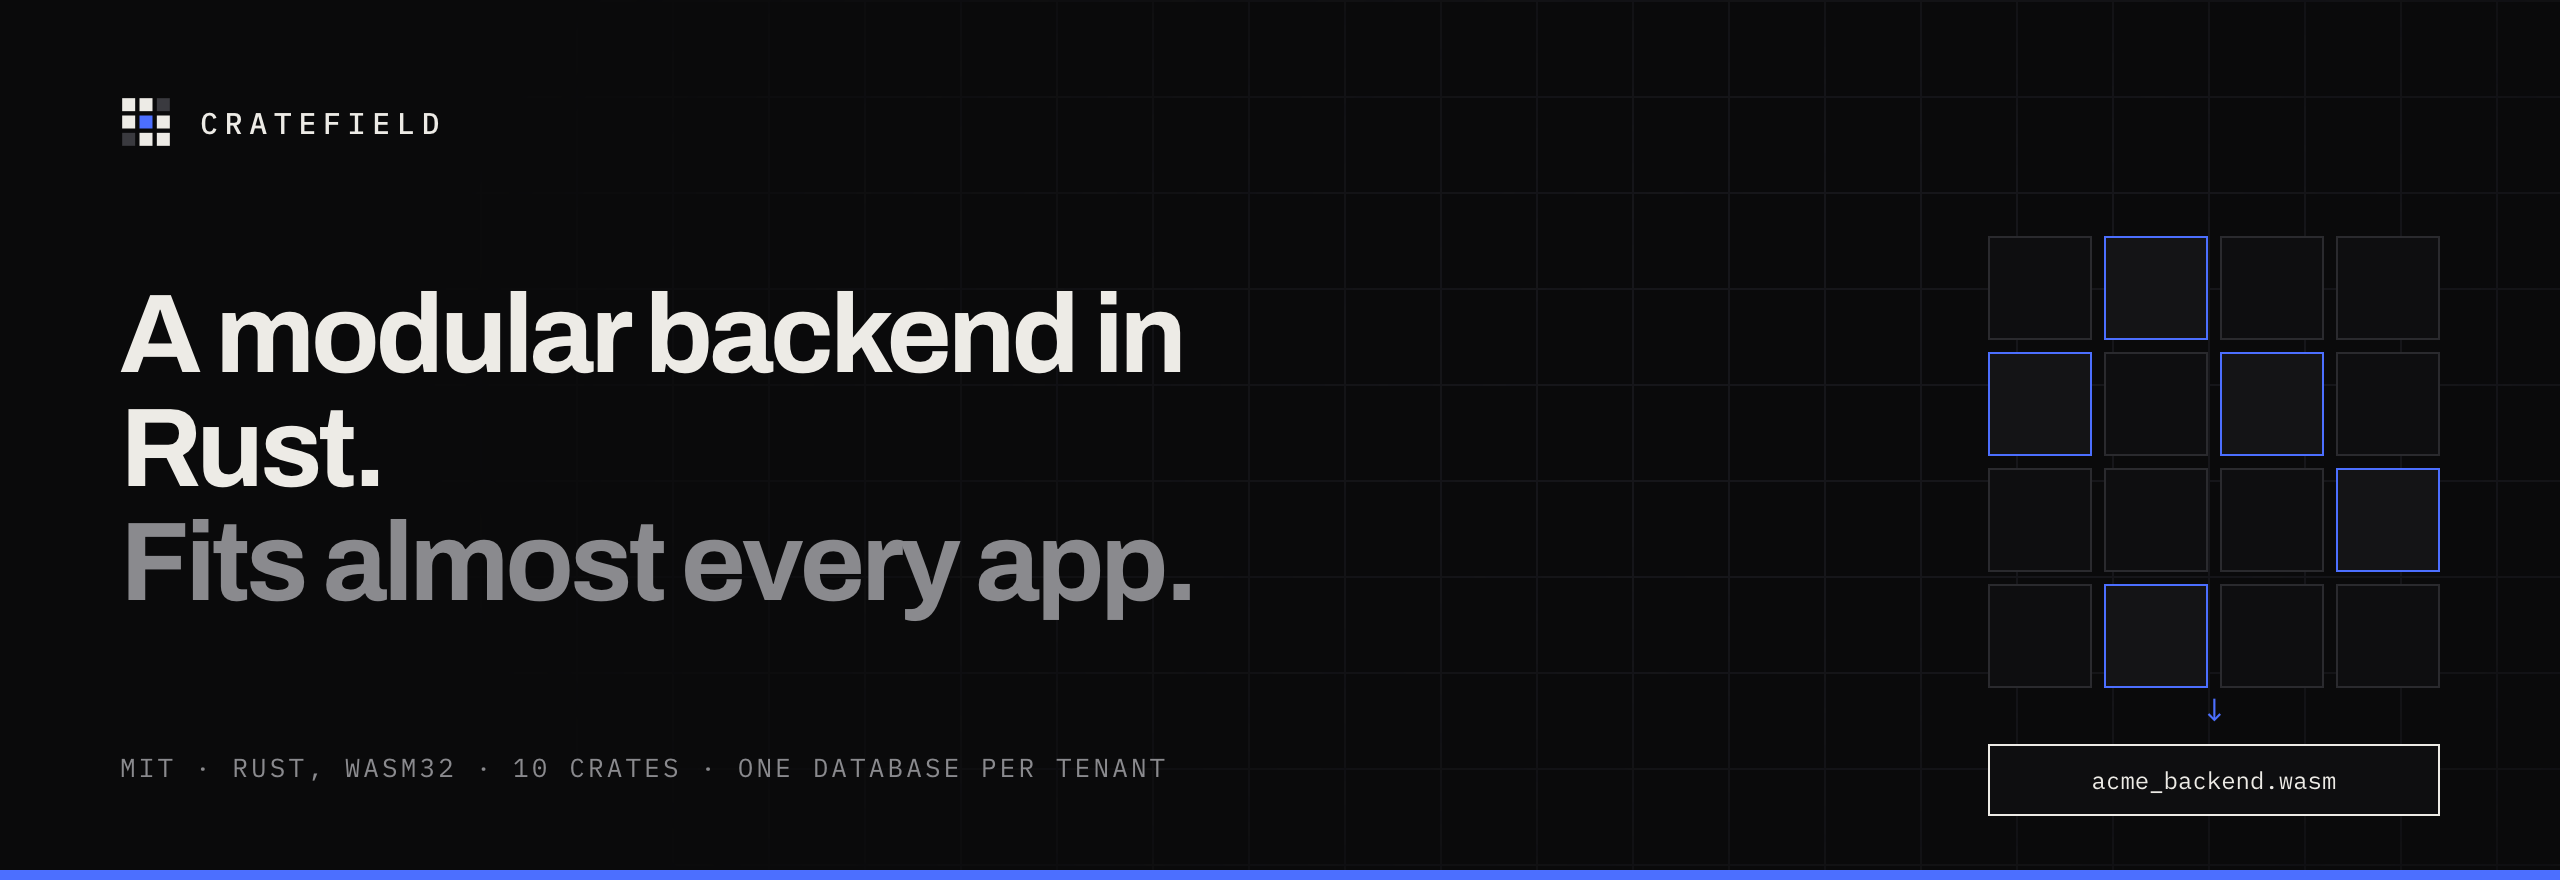
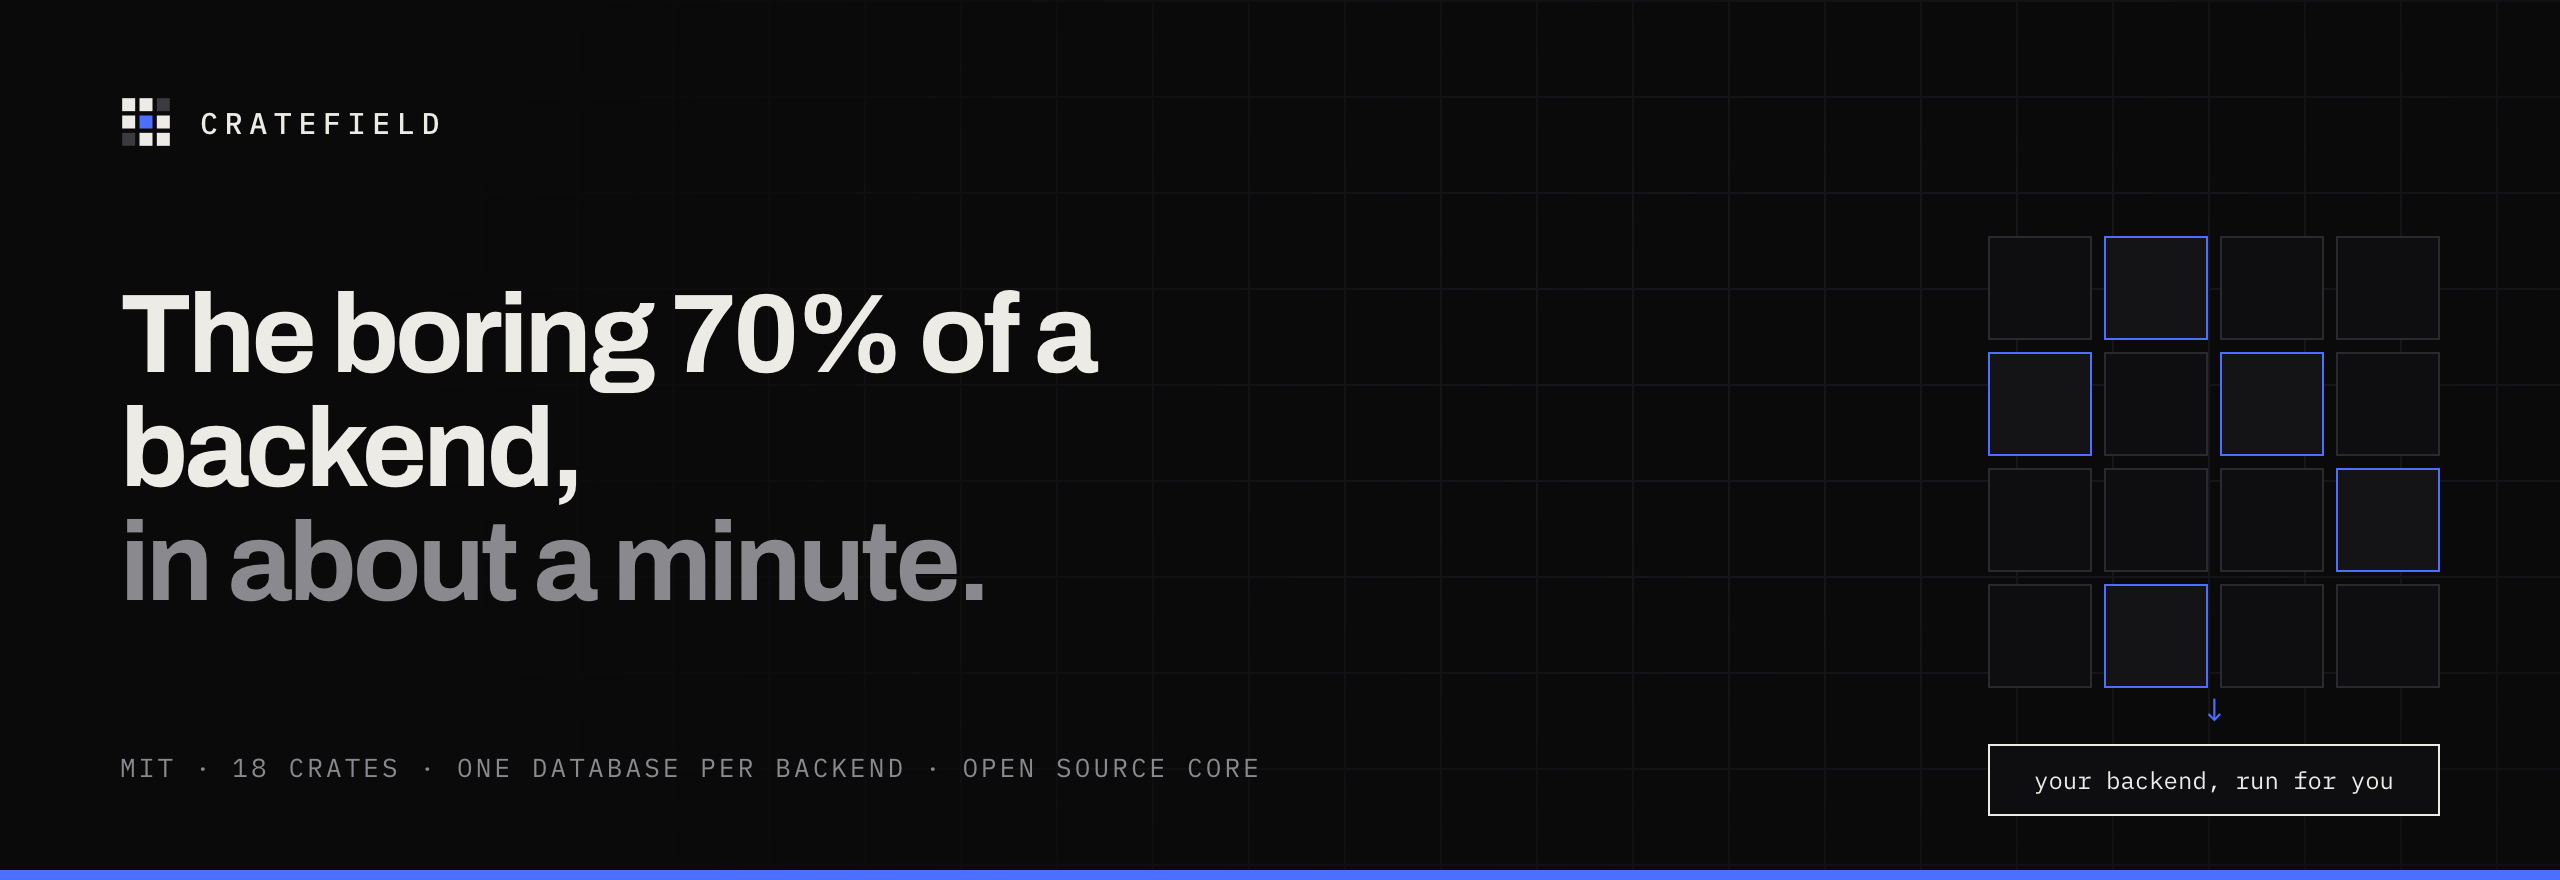
profile: follow the site to /technology/, and eighteen crates
The technical pages moved under /technology/ on cratefield.com, so the six
links here pointed at 301s. The crate count was ten and is eighteen. The
banner still read "A modular backend in Rust"; it now carries the site's
headline and was re-rendered from tools/org-banner.html.

Claude-Session: https://claude.ai/code/session_01YaN3pZbxpzJBfXT83HtcbR

diff --git a/tools/org-banner.html b/tools/org-banner.html
@@ -35,15 +35,15 @@
   <div class="mesh"></div>
   <div class="field" id="field"></div>
   <div class="arrow">&darr;</div>
-  <div class="out">acme_backend.wasm</div>
+  <div class="out">your backend, run for you</div>
   <div class="content">
     <div class="top">
       <svg width="26" height="26" viewBox="0 0 24 24" aria-hidden="true"><rect x="1" y="1" width="6" height="6" fill="#EDEBE6"/><rect x="9" y="1" width="6" height="6" fill="#EDEBE6"/><rect x="17" y="1" width="6" height="6" fill="#3A3A3F"/><rect x="1" y="9" width="6" height="6" fill="#EDEBE6"/><rect x="9" y="9" width="6" height="6" fill="#4C6FFF"/><rect x="17" y="9" width="6" height="6" fill="#EDEBE6"/><rect x="1" y="17" width="6" height="6" fill="#3A3A3F"/><rect x="9" y="17" width="6" height="6" fill="#EDEBE6"/><rect x="17" y="17" width="6" height="6" fill="#EDEBE6"/></svg>
       <span>CRATEFIELD</span>
     </div>
-    <h1>A modular backend in Rust.<br><span>Fits almost every app.</span></h1>
+    <h1>The boring 70% of a backend,<br><span>in about a minute.</span></h1>
     <div class="bottom">
-      <div>MIT · RUST, WASM32 · 10 CRATES · ONE DATABASE PER TENANT</div>
+      <div>MIT · 18 CRATES · ONE DATABASE PER BACKEND · OPEN SOURCE CORE</div>
       <div></div>
     </div>
   </div>

diff --git a/profile/README.md b/profile/README.md
@@ -1,5 +1,5 @@
 <p align="center">
-  <img src="https://raw.githubusercontent.com/Cratefield/.github/main/assets/org-banner.png" alt="Cratefield — a managed backend in Rust. Fits almost every app." width="100%">
+  <img src="https://raw.githubusercontent.com/Cratefield/.github/main/assets/org-banner.png" alt="Cratefield — the boring 70% of a backend, in about a minute." width="100%">
 </p>
 
 <p align="center">
@@ -14,9 +14,9 @@
     <a href="https://cratefield.com/platform/">Platform</a> &nbsp;·&nbsp;
     <a href="https://cratefield.com/pricing/">Pricing</a> &nbsp;·&nbsp;
     <a href="https://cratefield.com/isolation/">Isolation</a> &nbsp;·&nbsp;
-    <a href="https://cratefield.com/architecture/">Architecture</a> &nbsp;·&nbsp;
-    <a href="https://cratefield.com/modules/">Modules</a> &nbsp;·&nbsp;
-    <a href="https://cratefield.com/vs-supabase/">vs Supabase</a> &nbsp;·&nbsp;
+    <a href="https://cratefield.com/technology/architecture/">Architecture</a> &nbsp;·&nbsp;
+    <a href="https://cratefield.com/technology/modules/">Modules</a> &nbsp;·&nbsp;
+    <a href="https://cratefield.com/technology/vs-supabase/">vs Supabase</a> &nbsp;·&nbsp;
     <a href="https://cratefield.com/llms.txt">llms.txt</a>
   </sub>
 </p>
@@ -39,7 +39,7 @@ This matters more than anything else on this page, so it is first.
 
 | | What it is | Status |
 | :--- | :--- | :--- |
-| **Harness** | The open-source Rust core. Ten crates, MIT, in [`Cratefield/harness`](https://github.com/Cratefield/harness). Readable and runnable today. | `SHIPPING` |
+| **Harness** | The open-source Rust core. Eighteen crates, MIT, in [`Cratefield/harness`](https://github.com/Cratefield/harness). Readable and runnable today. | `SHIPPING` |
 | **Cratefield** | The managed service: builds, migrations, secrets, domains, certificates and monitoring, in either of two deployment modes. | `PLANNED` |
 
 The managed service is not built. Not a line of it. Everything on the site and
@@ -151,7 +151,7 @@ The exit is documented: the `Database` port already accepts real Postgres, and
 the same modules run as a native binary. Both are `DESIGNED`, not `SHIPPING`.
 
 The full comparison, including where Supabase is the better answer, is at
-[cratefield.com/vs-supabase](https://cratefield.com/vs-supabase/).
+[cratefield.com/technology/vs-supabase](https://cratefield.com/technology/vs-supabase/).
 
 ---
 
@@ -176,7 +176,7 @@ The roadmap is the issue tracker. There is no private version of it.
 | :--- | :--- |
 | [**website**](https://github.com/Cratefield/website) | [cratefield.com](https://cratefield.com). Static HTML, no build step, no dependencies |
 | **.github** | This page and the mark |
-| [**harness**](https://github.com/Cratefield/harness) | The open-source Rust core. Ten crates, MIT. Moved here from the Factory Zero organisation in September 2026 |
+| [**harness**](https://github.com/Cratefield/harness) | The open-source Rust core. Eighteen crates, MIT. Moved here from the Factory Zero organisation in September 2026 |
 
 ---
 
